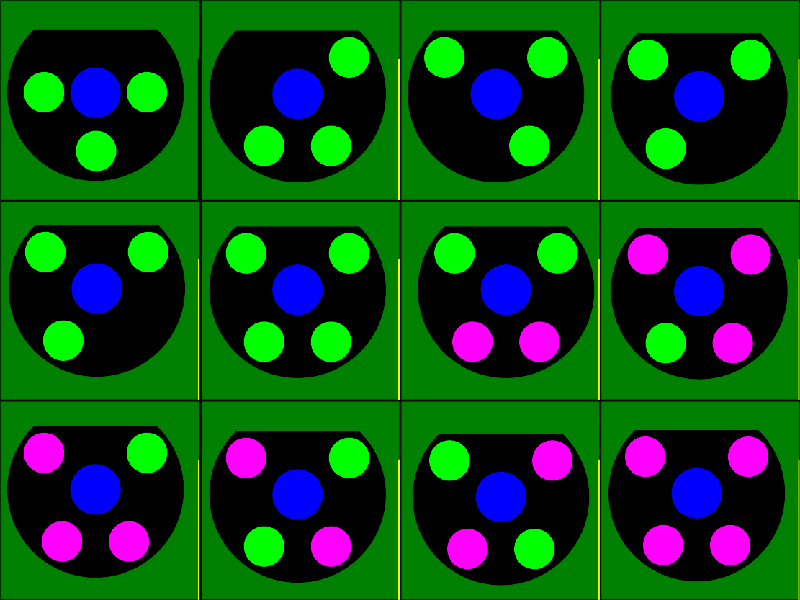
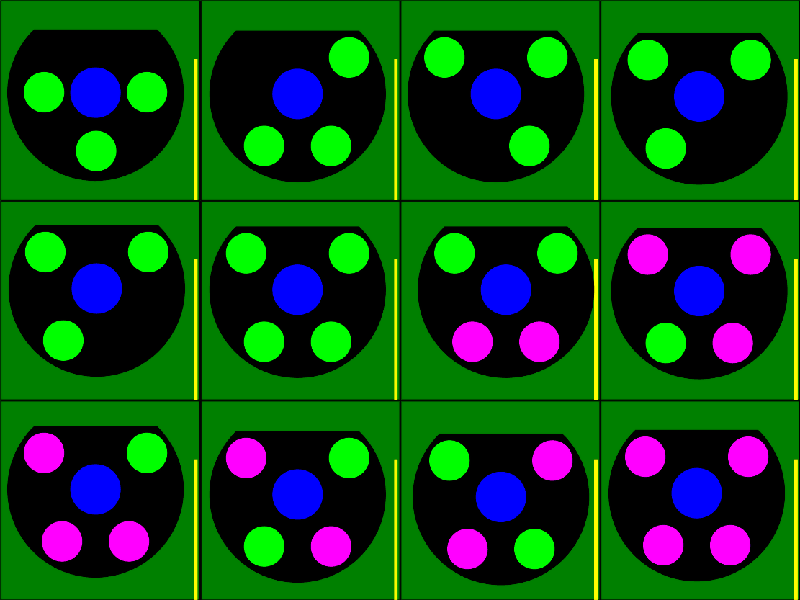
- updated cmdragons svg with wider height bars so that png generation is not negatively affected by aliasing. - improved the pattern recognizer to automatically skip all blobs of colors that are not at all used in the pattern definition image - some updates to CMDragons team definition - pattern ima

diff --git a/src/shared/cmpattern/cmpattern_teamdetector.cpp b/src/shared/cmpattern/cmpattern_teamdetector.cpp
@@ -148,7 +148,7 @@ void TeamDetector::init(Team * team)
       yuvImage yuvi;
       yuvi.allocate(rgbi.getWidth(),rgbi.getHeight());
       Images::convert(rgbi,yuvi);
-      
+      printf("Loading Team Image %s\n",_marker_image_file.c_str());
       if (model.loadMultiPatternImage(yuvi,&minilut,_marker_image_rows,_marker_image_cols,_team->_robot_height->getDouble())==false) {
           fprintf(stderr,"Errors while processing team image file: '%s'.\n",_marker_image_file.c_str());
           fflush(stderr);
@@ -160,6 +160,7 @@ void TeamDetector::init(Team * team)
     for (int i=0;i<model.getNumPatterns();i++) {
       model.getPattern(i).setEnabled(_team->_valid_patterns->isSelected(i));
     }
+    model.recheckColorsUsed();
   }
 
 
@@ -424,6 +425,7 @@ void TeamDetector::findRobotsByModel(::google::protobuf::RepeatedPtrField< ::SSL
   SSL_DetectionRobot * robot=0;
 
   MultiPatternModel::PatternDetectionResult res;
+
   while((reg = filter_team.getNext()) != 0) {
     vector2d reg_img_center(reg->cen_x,reg->cen_y);
     vector3d reg_center3d;
@@ -442,7 +444,7 @@ void TeamDetector::findRobotsByModel(::google::protobuf::RepeatedPtrField< ::SSL
         //TODO: implement masking:
         // filter_other.check(*mreg) && det.mask.get(mreg->cen_x,mreg->cen_y)>=0.5
 
-        if(filter_others.check(*mreg)) {
+        if(filter_others.check(*mreg) && model.usesColor(mreg->color)) {
           vector2d marker_img_center(mreg->cen_x,mreg->cen_y);
           vector3d marker_center3d;
           _camera_params.image2field(marker_center3d,marker_img_center,_robot_height);
@@ -462,17 +464,23 @@ void TeamDetector::findRobotsByModel(::google::protobuf::RepeatedPtrField< ::SSL
 
       if(num_markers >= 2){
         CMPattern::PatternProcessing::sortMarkersByAngle(markers,num_markers);
-
         for(int i=0; i<num_markers; i++){
+          /*DEBUG CODE:
+          char colorchar='?';
+          if (markers[i].id==color_id_green) colorchar='g';
+          if (markers[i].id==color_id_pink) colorchar='p';
+          if (markers[i].id==color_id_white) colorchar='w';
+          if (markers[i].id==color_id_team) colorchar='t';
+          if (markers[i].id==color_id_field_green) colorchar='f';
+          if (markers[i].id==color_id_cyan) colorchar='c';
+          printf("%c ",colorchar);*/
           int j = (i + 1) % num_markers;
           markers[i].next_dist = dist(markers[i].loc,markers[j].loc);
           markers[i].next_angle_dist = angle_pos(angle_diff(markers[i].angle,markers[j].angle));
         }
-        
-        if (model.findPattern(res,markers,num_markers,_pattern_fit_params,_camera_params)) {
-        
-              robot=addRobot(robots,res.conf,_max_robots*2);
 
+        if (model.findPattern(res,markers,num_markers,_pattern_fit_params,_camera_params)) {
+              robot=addRobot(robots,res.conf,_max_robots*2);
               if (robot!=0) {
                 //setup robot:
                 robot->set_x(cen.loc.x);
@@ -484,26 +492,6 @@ void TeamDetector::findRobotsByModel(::google::protobuf::RepeatedPtrField< ::SSL
                 robot->set_height(cen.height);
               }
         }
-        /*
-        // find out which robot this is
-        int idx = model.findRobot(markers,num_markers,vr);
-
-        // save the results
-        if(idx >= 0){
-          seen[idx] += 2;
-          Net::RawVisionPos &r = robot[idx];
-          if(vr.timestamp > r.timestamp || vr.conf > r.conf){
-            r.timestamp = det.timestamp;
-            r.loc   = vr.loc;
-            r.angle = vr.angle;
-            r.conf  = vr.conf;
-
-            if(debug){
-              printf("    id=%X loc=(%8.1f %8.1f) angle=%6.3f c=%0.3f\n",
-                     idx,V2COMP(r.loc),r.angle,r.conf);
-            }
-          }
-        }*/
       }
     }
   }

diff --git a/src/shared/cmpattern/cmpattern_pattern.cpp b/src/shared/cmpattern/cmpattern_pattern.cpp
@@ -137,6 +137,10 @@ int MultiPatternModel::getNumPatterns() {
   return num_patterns;
 }
 
+bool MultiPatternModel::usesColor(raw8 color_id) const {
+  return used.isUsed(color_id.v);
+}
+
 bool MultiPatternModel::loadMultiPatternImage(const yuvImage & multi_image, YUVLUT * _lut, int rows, int cols, float default_object_height)
 {
   yuvImage single_image;
@@ -182,10 +186,9 @@ bool MultiPatternModel::loadMultiPatternImage(const yuvImage & multi_image, YUVL
 }
 
 void MultiPatternModel::clearPatternModels() {
-  //TODO FIXME:
+  used.clear();
   for (int i = 0; i < num_patterns; i ++) {
     patterns[i].reset();
-    
   }
   marker_max_dist=0.0;
 }
@@ -258,13 +261,15 @@ bool MultiPatternModel::loadSinglePatternImage(const yuvImage & image, YUVLUT * 
     reg = colors->getRegionList(color_height_id).getInitialElement();
 
     if(reg!=0 ){
-      if(reg->width()<1 || reg->width() > 3) {
-        printf("WARNING: No Object Height Indicator Found in Image!\n");
+      if(reg->width()<1 || reg->width() > 6) {
+        printf("WARNING: No Object Height Indicator Found in Image (for robot id=%d)!\n",idx);
       } else if ( reg->next != 0) {
-        printf("WARNING: Multiple Height Indicators Found in Image!\n");
+        printf("WARNING: Multiple Height Indicators Found in Image (for robot id=%d)!\n",idx);
       } else {
         height = reg->height();
       }
+    } else {
+      printf("WARNING: No Object Height Indicator Found in Image (for robot id=%d)!\n",idx);
     }
   }
 
@@ -279,6 +284,7 @@ bool MultiPatternModel::loadSinglePatternImage(const yuvImage & image, YUVLUT * 
         vector2f p(-reg->cen_y,-reg->cen_x);
         m.loc = p - cen;
         m.id = marker_color_ids[c];
+        used.use(m.id.v);
         m.area = reg->area;
         m.angle = angle_pos(m.loc.angle());
         m.dist  = m.loc.length();
@@ -365,6 +371,17 @@ double MultiPatternModel::calcFitError(const Marker *model,
 
 Pattern & MultiPatternModel::getPattern(int idx) {
   return patterns[idx];
+}
+
+void MultiPatternModel::recheckColorsUsed() {
+  used.clear();
+  for (int i=0;i<num_patterns;i++) {
+    if (getPattern(i).enabled) {
+      for (int j=0;j<getPattern(i).num_markers;j++) {
+        used.use(getPattern(i).markers[j].id.v);
+      }
+    }
+  }
 }
 
 bool MultiPatternModel::findPattern(PatternDetectionResult & result, Marker * markers,int num_markers, const PatternFitParameters & fit_params,const CameraParameters& camera_params) const {

diff --git a/src/shared/cmpattern/cmpattern_pattern.h b/src/shared/cmpattern/cmpattern_pattern.h
@@ -106,6 +106,32 @@ public:
 
 class MultiPatternModel {
 public:
+  class ColorsUsed {
+    protected:
+    int n;
+    uint8_t * used;
+    public:
+    ColorsUsed(uint8_t max_color_id=32) {
+      n=max_color_id;
+      used = new uint8_t[n];
+      clear();
+    }
+    ~ColorsUsed() {
+      delete[] used;
+    }
+    void clear() {
+      for (int i=0;i<n;i++) {
+        used[i]=0;
+      }
+    }
+    void use(uint8_t color_id) {
+      if (color_id < n) used[color_id]=1;
+    }
+    inline bool isUsed(uint8_t color_id) const {
+      if (color_id >= n) return false;
+      return used[color_id];
+    }
+  };
   class PatternFitParameters {
     public:
     float fit_max_error;
@@ -150,6 +176,7 @@ protected:
   float     marker_max_dist;
   int       num_patterns;
   Pattern * patterns;
+  ColorsUsed used;
 protected:
   void calcDerived();
   void allocate(int num_patterns);
@@ -160,10 +187,11 @@ public:
   Pattern & getPattern(int idx);
   int getNumPatterns();
   void clearPatternModels();
+  bool usesColor(raw8 color_id) const;
   bool loadSinglePatternImage(const yuvImage & image, YUVLUT * _lut,int idx, float default_object_height=0.0);
   bool loadMultiPatternImage(const yuvImage & image, YUVLUT * _lut, int rows=4, int cols=4, float default_object_height=0.0);
   bool findPattern(PatternDetectionResult & result, Marker * markers,int num_markers, const PatternFitParameters & fit_params,const CameraParameters& camera_params) const;
-
+  void recheckColorsUsed();//to be used if patterns have been enabled/disabled;
 };
 
 

diff --git a/src/shared/cmpattern/cmpattern_team.cpp b/src/shared/cmpattern/cmpattern_team.cpp
@@ -42,6 +42,7 @@ Team::Team(VarList * team_root)
     _unique_patterns = _settings->findChildOrReplace(new VarBool("Unique Patterns"));
     _have_angle = _settings->findChildOrReplace(new VarBool("Have Angles"));
     _robot_height = _settings->findChildOrReplace(new VarDouble("Robot Height (mm)", 140.0));
+    _use_marker_image_heights = _settings->findChildOrReplace(new VarBool("Use Heights from Marker Image", true));
 
     _marker_image = _settings->findChildOrReplace(new VarList("Marker Image"));
       _load_markers_from_image_file = _marker_image->findChildOrReplace(new VarBool("Load Image File",true));

diff --git a/src/shared/cmpattern/cmpattern_team.h b/src/shared/cmpattern/cmpattern_team.h
@@ -56,7 +56,7 @@ protected:
     VarInt *    _marker_image_cols;
     VarSelection * _valid_patterns;
     VarDouble * _robot_height;
-
+    VarBool   * _use_marker_image_heights;
     VarList * _marker_image;
 
     VarList * _center_marker_filter;
